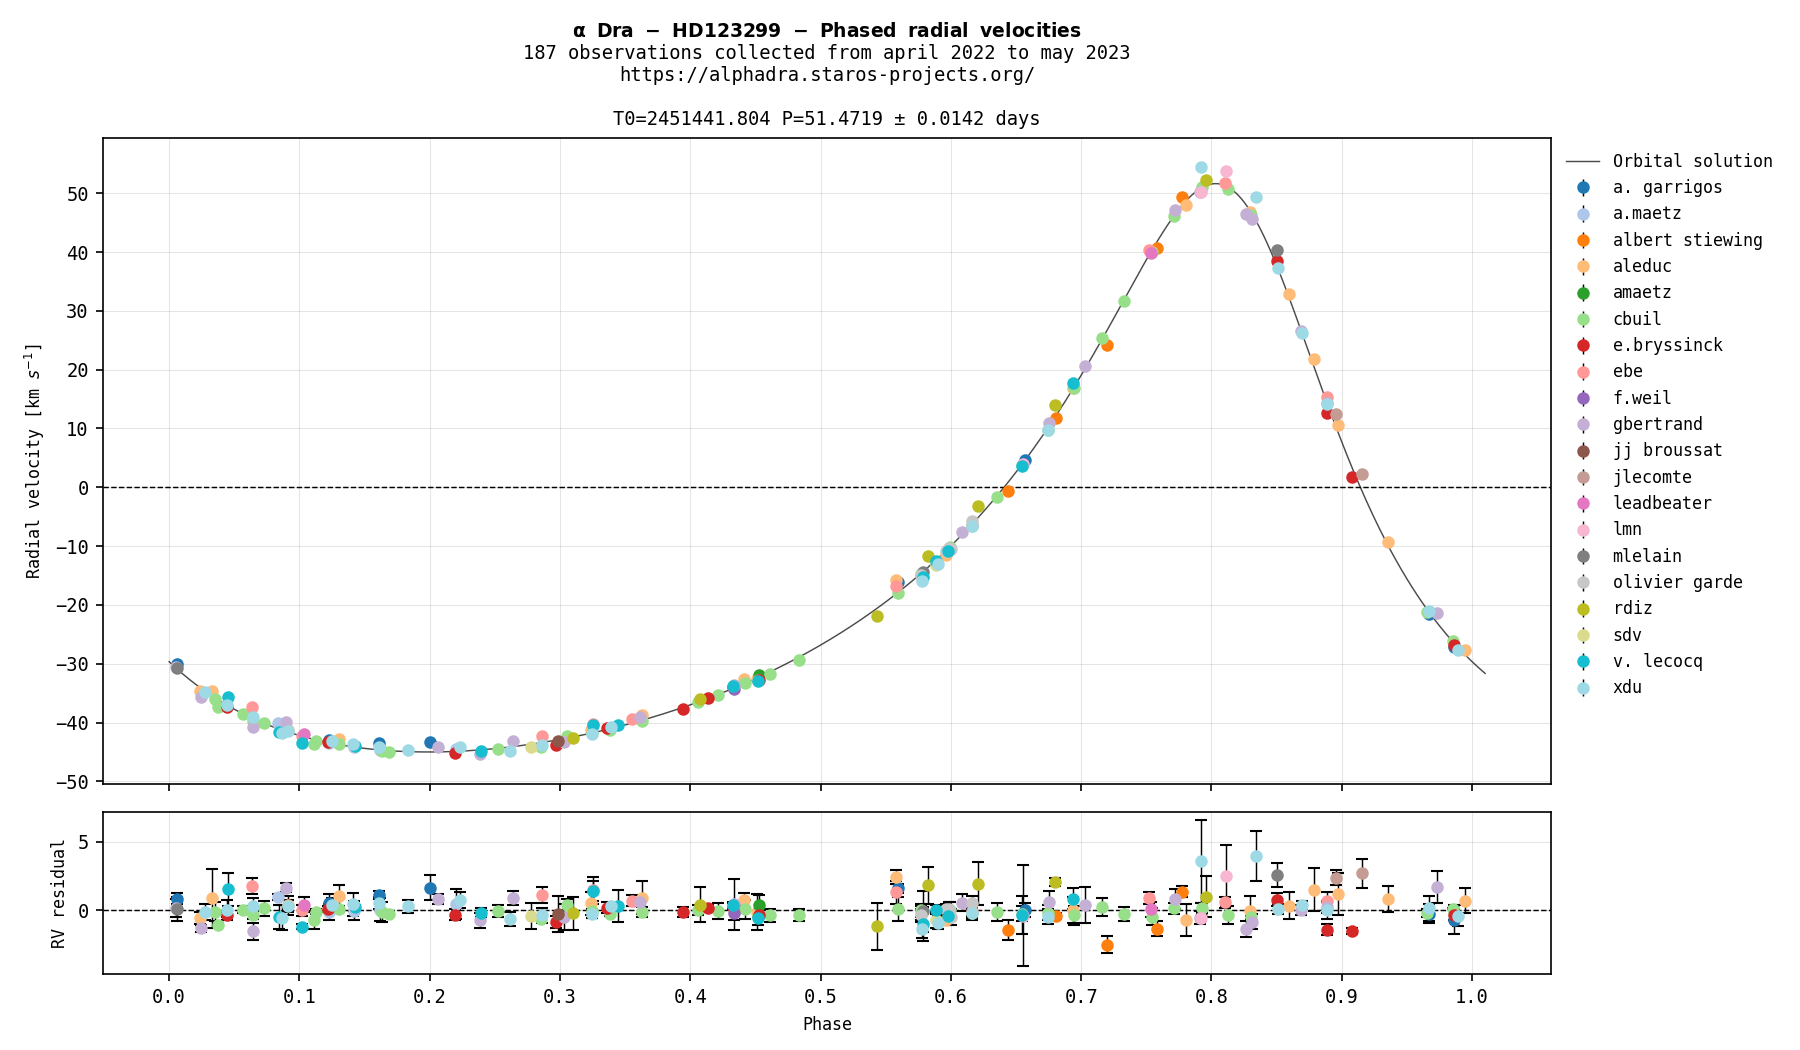
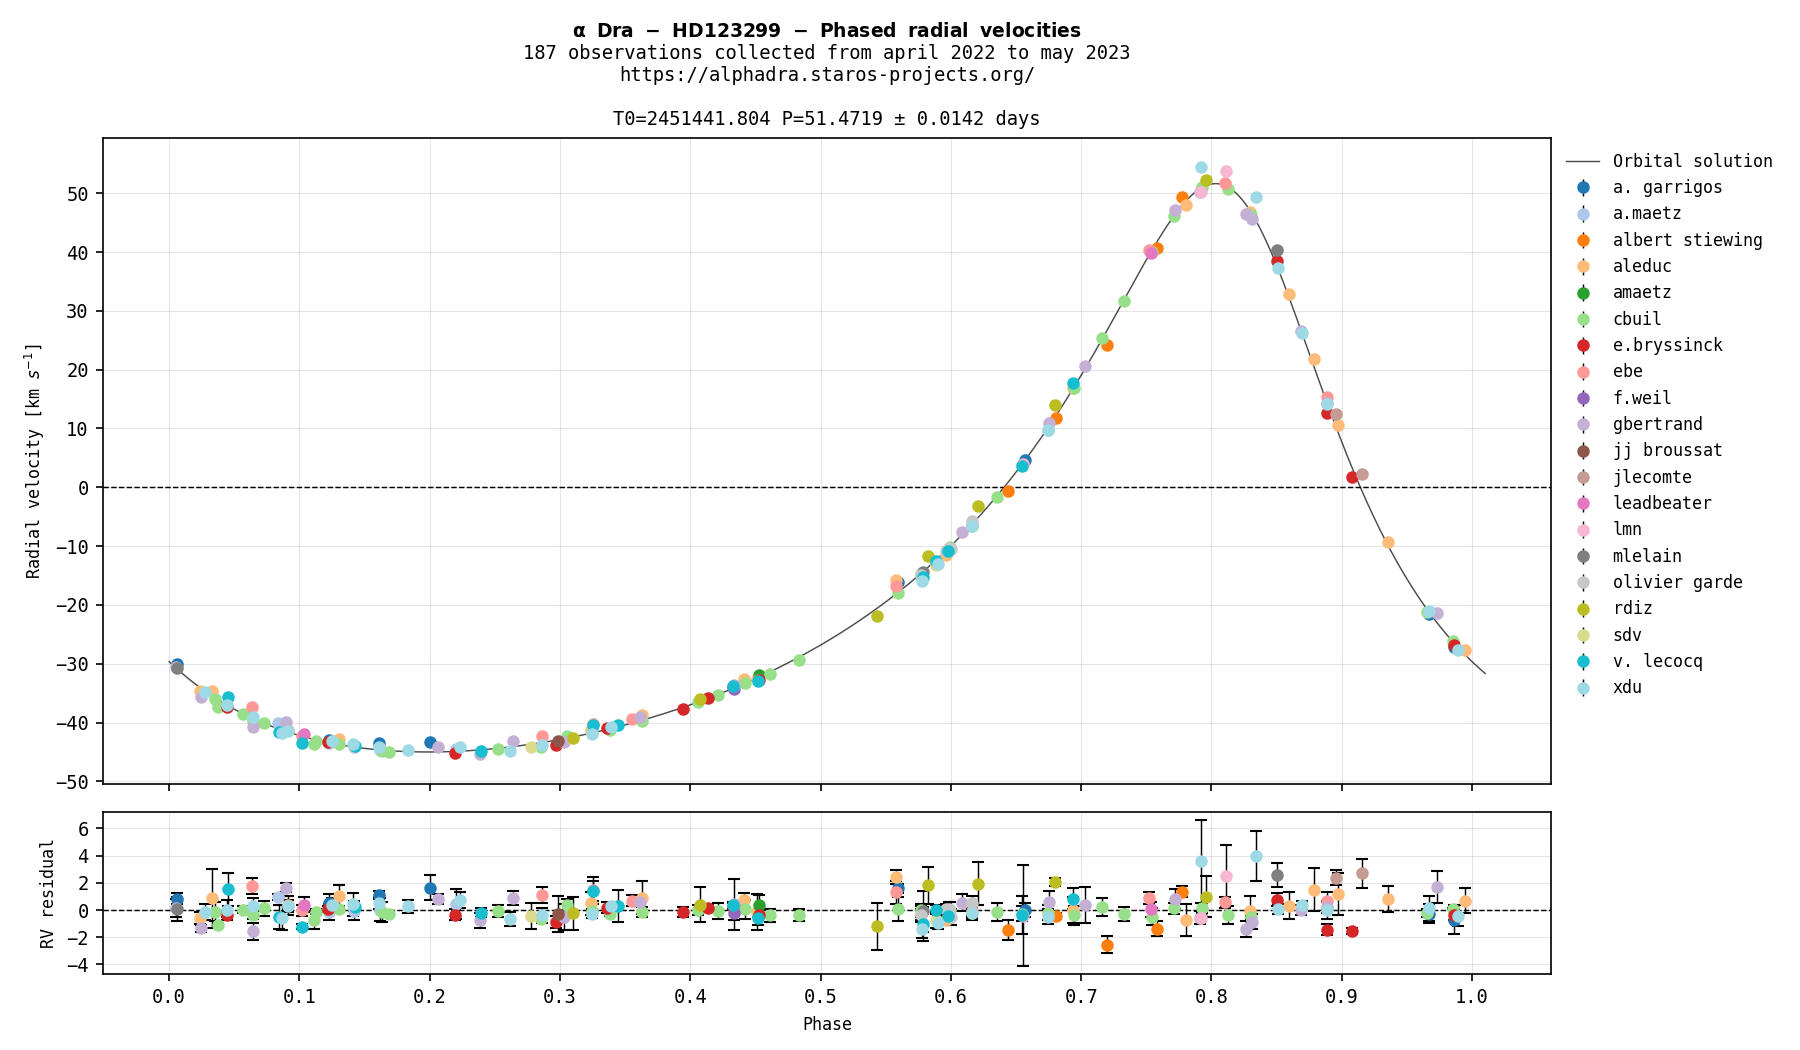
update data

Changed region(s): [[0.0, 0.7924, 0.0622, 0.8533], [0.0311, 0.8838, 0.0622, 0.9143]]

diff --git a/test.py b/test.py
@@ -13,13 +13,14 @@ sbs = SpectroscopicBinarySystem(
         "SB_TYPE": 1
     },
     verbose=True,
-    debug=False)
+    debug=True)
 
 # # plot result with matplotlib and save the results
 sbs.plotRadialVelocityCurve(
     title="α Dra - HD123299 - Phased radial velocities",
     subtitle=f"{sbs.getObservationCount()} observations collected from april 2022 to may 2023\nhttps://alphadra.staros-projects.org/\n",
-    savefig=True)
+    savefig=True,
+    residual_y_multiple=2)
 
 
 # # plot 2d dynamic spectrum
